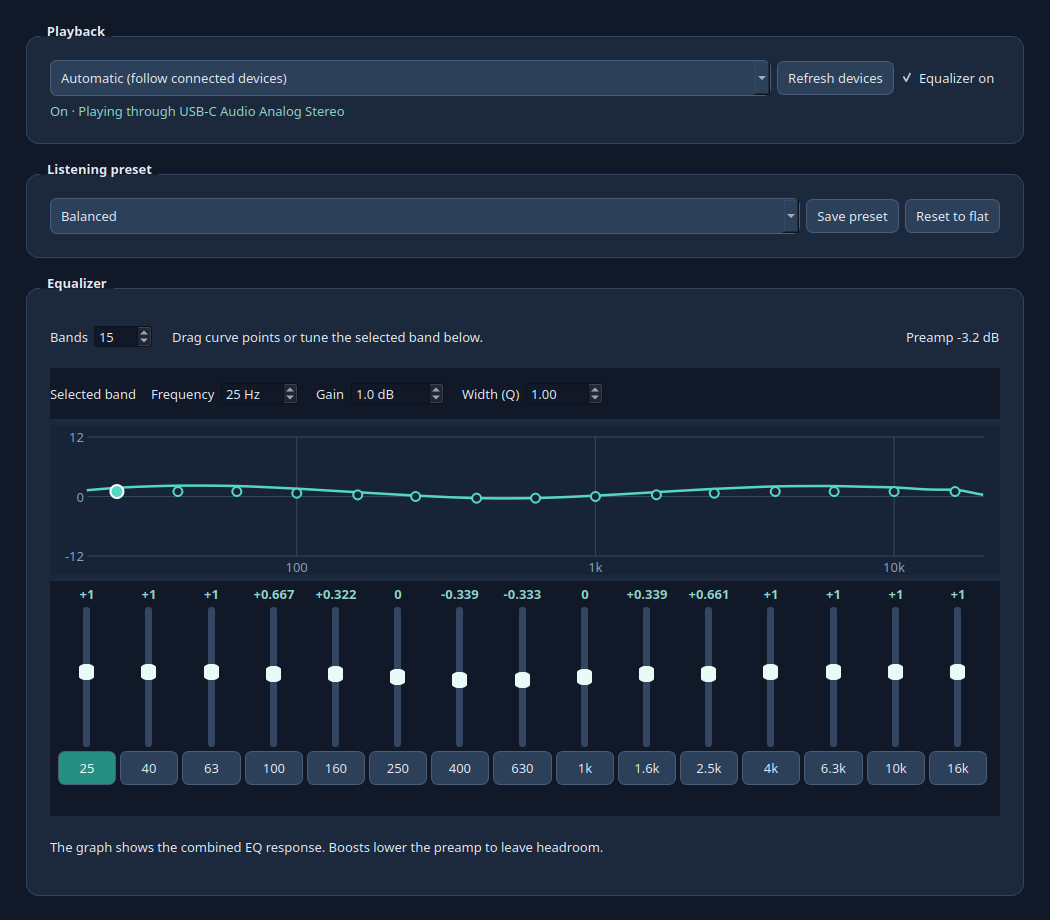
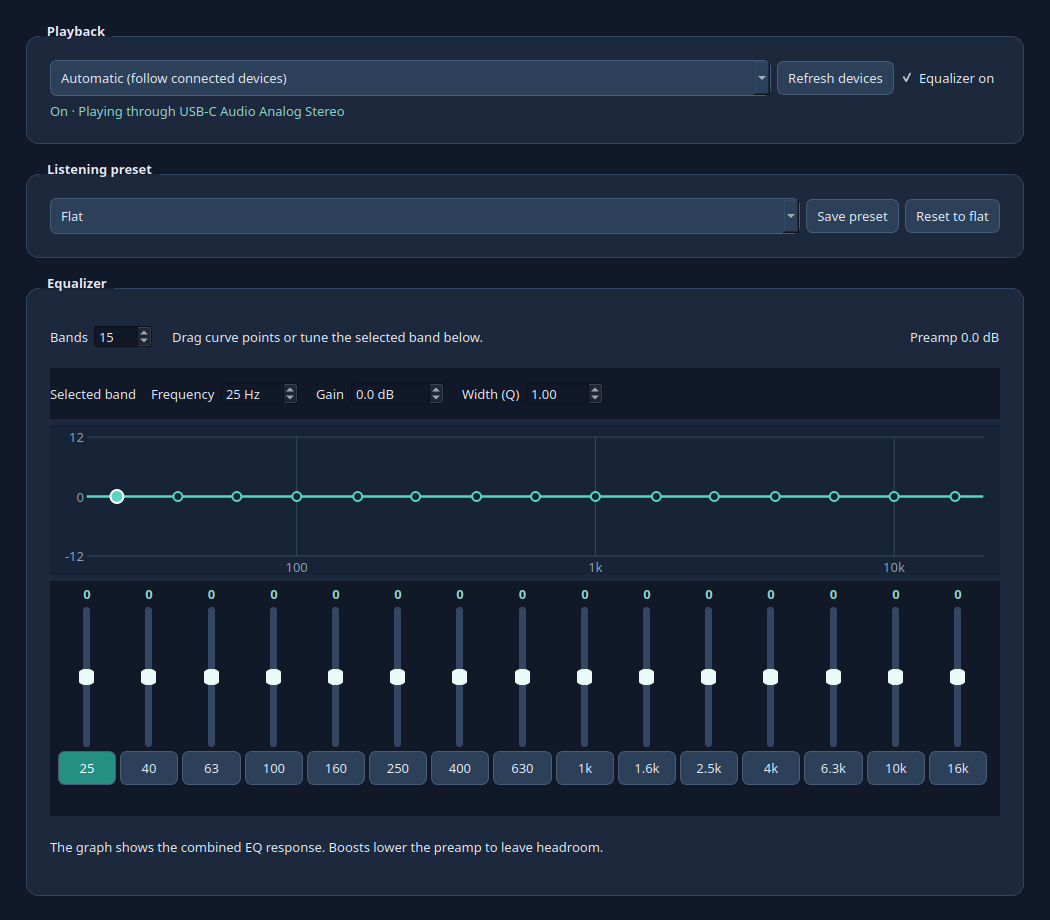
Make presets clear and scrollable with Flat default

diff --git a/src/main.cpp b/src/main.cpp
@@ -18,6 +18,7 @@
 #include <QJsonObject>
 #include <QLabel>
 #include <QLineEdit>
+#include <QListView>
 #include <QLocalServer>
 #include <QLocalSocket>
 #include <QLockFile>
@@ -29,12 +30,12 @@
 #include <QProcess>
 #include <QPushButton>
 #include <QScrollArea>
+#include <QScrollBar>
 #include <QSaveFile>
 #include <QSignalBlocker>
 #include <QSlider>
 #include <QSpinBox>
 #include <QStandardPaths>
-#include <QStandardItemModel>
 #include <QSystemTrayIcon>
 #include <QTemporaryDir>
 #include <QThread>
@@ -262,6 +263,17 @@ int nodeId(const QString &name) {
     return -1;
 }
 
+QString filterControls(const Bands &bands) {
+    QStringList controls = {quote("preamp:Mult"), QString::number(std::pow(10.0, headroom(bands) / 20.0), 'f', 8)};
+    for (int i = 0; i < kMaxBands; ++i) {
+        const auto band = i < bands.size() ? bands[i] : Band{};
+        controls << quote(QString("band_%1:Freq").arg(i + 1)) << QString::number(band.frequency, 'f', 1)
+                 << quote(QString("band_%1:Q").arg(i + 1)) << QString::number(band.q, 'f', 2)
+                 << quote(QString("band_%1:Gain").arg(i + 1)) << QString::number(band.gain, 'f', 2);
+    }
+    return "{ params = [ " + controls.join(' ') + " ] }";
+}
+
 class AudioEngine {
 public:
     bool active() const { return process_.state() != QProcess::NotRunning; }
@@ -313,15 +325,7 @@ public:
         if (!active()) return;
         const auto id = nodeId(kSink);
         if (id < 0) throw std::runtime_error("Equalizer sink disappeared");
-        QStringList controls = {quote("preamp:Mult"), QString::number(std::pow(10.0, headroom(bands) / 20.0), 'f', 8)};
-        for (int i = 0; i < kMaxBands; ++i) {
-            const auto band = i < bands.size() ? bands[i] : Band{};
-            controls << quote(QString("band_%1:Freq").arg(i + 1)) << QString::number(band.frequency, 'f', 1)
-                     << quote(QString("band_%1:Q").arg(i + 1)) << QString::number(band.q, 'f', 2)
-                     << quote(QString("band_%1:Gain").arg(i + 1)) << QString::number(band.gain, 'f', 2);
-        }
-        command("pw-cli", {"set-param", QString::number(id), "Props",
-                            "{ params = [ " + controls.join(' ') + " ] }"});
+        command("pw-cli", {"set-param", QString::number(id), "Props", filterControls(bands)});
     }
 
     void stop() {
@@ -385,7 +389,7 @@ const QMap<QString, std::array<double, 9>> &builtinShapes() {
         {"Movies", {3, 2.5, 1.5, 0, -1, 0, 1, 2, 2}},
         {"Gaming", {3, 2, 0, -2, -1, 1, 3, 2, 0}},
         {"FPS Footsteps", {-5, -4, -3, -2, 0, 2, 4, 3, 1}},
-        {"Night Listening", {-3, -2, -1, 0, 1, 2, 1, -1, -2}},
+        {"Night Listening", {-6, -5, -3, 0, 2, 3, 1, -3, -5}},
         {"Small Speakers", {-4, -2, 0, 2, 2, 1, 1, 0, -1}},
         {"Headphones", {1, 1, 0, -1, -1.5, 0, 1.5, 2, 1}},
         {"Rock", {3, 2, 1, -1, -2, 0, 2, 3, 2}},
@@ -557,9 +561,28 @@ private:
     int dragging_ = -1;
 };
 
+class PresetComboBox : public QComboBox {
+protected:
+    void showPopup() override {
+        QComboBox::showPopup();
+        auto *popup = view()->window();
+        const auto rowHeight = std::max(18, view()->sizeHintForRow(0));
+        const auto height = std::min(count(), maxVisibleItems()) * rowHeight + 16;
+        popup->setFixedHeight(height);
+        if (auto *screen = QGuiApplication::screenAt(mapToGlobal(rect().center()))) {
+            const auto area = screen->availableGeometry();
+            auto position = mapToGlobal(rect().bottomLeft());
+            if (position.y() + height > area.bottom())
+                position.setY(mapToGlobal(rect().topLeft()).y() - height);
+            popup->move(std::clamp(position.x(), area.left(), area.right() - popup->width()),
+                        std::clamp(position.y(), area.top(), area.bottom() - height));
+        }
+    }
+};
+
 class MainWindow : public QMainWindow {
 public:
-    explicit MainWindow(bool startEnabled = true) : bands_(builtinProfile("Balanced", kDefaultBands)) {
+    explicit MainWindow(bool startEnabled = true) : bands_(builtinProfile("Flat", kDefaultBands)) {
         setWindowTitle("SoundCurrent EQ");
         setWindowIcon(QIcon::fromTheme("io.github.rhamenator.SoundCurrentEQ"));
         setMinimumSize(760, 620);
@@ -594,8 +617,11 @@ public:
 
         auto *presetBox = new QGroupBox("Listening preset");
         auto *presetRow = new QHBoxLayout(presetBox);
-        presetCombo_ = new QComboBox;
+        presetCombo_ = new PresetComboBox;
         presetCombo_->setAccessibleName("Listening preset");
+        presetCombo_->setView(new QListView(presetCombo_));
+        presetCombo_->setMaxVisibleItems(12);
+        presetCombo_->view()->setVerticalScrollBarPolicy(Qt::ScrollBarAlwaysOn);
         presetRow->addWidget(presetCombo_, 1);
         auto *save = new QPushButton("Save preset");
         presetRow->addWidget(save);
@@ -665,7 +691,7 @@ public:
         root->addWidget(eqBox, 1);
 
         loadCustomPresets();
-        rebuildPresetList("Balanced");
+        rebuildPresetList("Flat");
         rebuildBandControls();
         syncBandControls();
         refreshDevices();
@@ -882,24 +908,21 @@ private:
     void rebuildPresetList(const QString &selected) {
         const QSignalBlocker blocker(presetCombo_);
         presetCombo_->clear();
-        auto addSection = [this](const QString &title, const QStringList &names) {
-            presetCombo_->addItem(title);
-            if (auto *model = qobject_cast<QStandardItemModel *>(presetCombo_->model())) {
-                auto *heading = model->item(presetCombo_->count() - 1);
-                heading->setEnabled(false);
-                heading->setForeground(QColor("#90d9ce"));
-            }
+        auto addGroup = [this](const QStringList &names) {
+            if (presetCombo_->count()) presetCombo_->insertSeparator(presetCombo_->count());
             for (const auto &name : names) presetCombo_->addItem(name);
         };
-        addSection("Everyday", {"Balanced", "Flat", "Warm", "Bright", "Soft Treble", "Treble Detail",
-                                 "Headphones", "Small Speakers", "Night Listening"});
-        addSection("Bass and speech", {"Bass Boost", "Deep Bass", "Punchy Bass", "Bass Cut",
-                                        "Clear Voice", "Podcast", "TV Dialogue", "Vocal Focus"});
-        addSection("Entertainment", {"Movies", "Gaming", "FPS Footsteps", "Live"});
-        addSection("Music", {"Rock", "Pop", "Jazz", "Classical", "Electronic", "Dance", "Hip-Hop",
-                             "R&B", "Acoustic", "Piano", "Metal", "Lo-Fi"});
-        if (!custom_.isEmpty()) addSection("Saved presets", {});
-        for (auto it = custom_.begin(); it != custom_.end(); ++it) presetCombo_->addItem(it.key());
+        addGroup({"Balanced", "Flat", "Warm", "Bright", "Soft Treble", "Treble Detail",
+                  "Headphones", "Small Speakers", "Night Listening"});
+        addGroup({"Bass Boost", "Deep Bass", "Punchy Bass", "Bass Cut",
+                  "Clear Voice", "Podcast", "TV Dialogue", "Vocal Focus"});
+        addGroup({"Movies", "Gaming", "FPS Footsteps", "Live"});
+        addGroup({"Rock", "Pop", "Jazz", "Classical", "Electronic", "Dance", "Hip-Hop",
+                  "R&B", "Acoustic", "Piano", "Metal", "Lo-Fi"});
+        if (!custom_.isEmpty()) {
+            presetCombo_->insertSeparator(presetCombo_->count());
+            for (auto it = custom_.begin(); it != custom_.end(); ++it) presetCombo_->addItem(it.key());
+        }
         presetCombo_->addItem("Custom");
         presetCombo_->setCurrentText(selected);
     }
@@ -1076,6 +1099,12 @@ int main(int argc, char **argv) {
         QTextStream(stdout) << filterConfig(app.arguments()[2], defaultBands(kDefaultBands));
         return 0;
     }
+    if (app.arguments().size() == 3 && app.arguments()[1] == "--dump-preset-controls") {
+        const auto name = app.arguments()[2];
+        if (!builtinShapes().contains(name)) return 2;
+        QTextStream(stdout) << filterControls(builtinProfile(name, kDefaultBands));
+        return 0;
+    }
     if (app.arguments().contains("--self-test")) {
         try {
             const auto standard = defaultBands(kDefaultBands);
@@ -1156,8 +1185,23 @@ int main(int argc, char **argv) {
         for (auto *combo : testWindow.findChildren<QComboBox *>())
             if (combo->accessibleName() == "Listening preset") presets = combo;
         if (!presets) qFatal("Preset menu is missing");
-        for (auto it = builtinShapes().begin(); it != builtinShapes().end(); ++it)
+        if (presets->currentText() != "Flat") qFatal("Flat is not the default preset");
+        if (presets->findText("Entertainment") >= 0) qFatal("Category title appears as a preset");
+        for (auto it = builtinShapes().begin(); it != builtinShapes().end(); ++it) {
             if (presets->findText(it.key()) < 0) qFatal("A built-in preset is missing from the menu");
+            presets->setCurrentText(it.key());
+            if (std::abs(gain->value() - builtinProfile(it.key(), kDefaultBands).first().gain) > 0.11)
+                qFatal("A built-in preset did not update the band controls");
+        }
+        testWindow.show();
+        app.processEvents();
+        presets->showPopup();
+        app.processEvents();
+        if (presets->maxVisibleItems() != 12 ||
+            presets->view()->verticalScrollBar()->maximum() <= 0)
+            qFatal("Preset menu does not scroll");
+        presets->hidePopup();
+        testWindow.hide();
         presets->setCurrentText("Deep Bass");
         if (gain->value() < 6.0) qFatal("Deep Bass preset did not change the bands");
         presets->setCurrentText("Flat");

diff --git a/tests/audio_response.py b/tests/audio_response.py
@@ -75,18 +75,19 @@ def main():
             else:
                 raise RuntimeError("PipeWire did not create the EQ sink")
 
-            tone = directory / "tone.wav"
-            with wave.open(str(tone), "wb") as wav:
-                wav.setnchannels(2)
-                wav.setsampwidth(2)
-                wav.setframerate(48000)
-                frame = array.array("h")
-                for n in range(96000):
-                    value = round(3000 * math.sin(2 * math.pi * 1000 * n / 48000))
-                    frame.extend((value, value))
-                wav.writeframes(frame.tobytes())
+            for frequency in (100, 1000):
+                with wave.open(str(directory / f"tone-{frequency}.wav"), "wb") as wav:
+                    wav.setnchannels(2)
+                    wav.setsampwidth(2)
+                    wav.setframerate(48000)
+                    frame = array.array("h")
+                    for n in range(96000):
+                        value = round(3000 * math.sin(2 * math.pi * frequency * n / 48000))
+                        frame.extend((value, value))
+                    wav.writeframes(frame.tobytes())
 
-            flat = capture(tone, directory / "flat.raw", sink)
+            flat_100 = capture(directory / "tone-100.wav", directory / "flat-100.raw", sink)
+            flat = capture(directory / "tone-1000.wav", directory / "flat.raw", sink)
             frequencies = (25, 40, 63, 100, 160, 250, 400, 630, 1000, 1600, 2500, 4000, 6300,
                            10000, 16000)
             controls = ['"preamp:Mult" 1.0']
@@ -98,11 +99,21 @@ def main():
                                  f'"band_{index}:Gain" {gain}'))
             run("pw-cli", "set-param", str(eq_id), "Props", "{ params = [ " + " ".join(controls) + " ] }",
                 stdout=subprocess.DEVNULL)
-            cut = capture(tone, directory / "cut.raw", sink)
+            cut = capture(directory / "tone-1000.wav", directory / "cut.raw", sink)
             change = 20 * math.log10(cut / flat)
             print(f"1 kHz band response: {change:.1f} dB (expected about -12 dB)")
             if not -14.0 < change < -10.0:
                 raise RuntimeError("Equalizer control did not change the audio signal as expected")
+
+            night_controls = run(str(binary), "--dump-preset-controls", "Night Listening",
+                                 capture_output=True, text=True,
+                                 env={**os.environ, "QT_QPA_PLATFORM": "offscreen"}).stdout
+            run("pw-cli", "set-param", str(eq_id), "Props", night_controls, stdout=subprocess.DEVNULL)
+            night_100 = capture(directory / "tone-100.wav", directory / "night-100.raw", sink)
+            night_change = 20 * math.log10(night_100 / flat_100)
+            print(f"Night Listening response at 100 Hz: {night_change:.1f} dB relative to Flat")
+            if night_change > -8.0:
+                raise RuntimeError("Night Listening did not sufficiently reduce low frequencies")
         finally:
             if pipewire is not None:
                 pipewire.terminate()

diff --git a/README.md b/README.md
@@ -5,6 +5,7 @@ starts with 15 frequency bands and lets you choose any count from 5 to 31.
 Each band has adjustable gain, center frequency, and width (Q). It also has a
 response curve, 33 listening presets, saved custom presets, and an output dropdown
 with an **Automatic** option that follows connected devices.
+It opens with the **Flat** preset selected.
 
 ![SoundCurrent EQ desktop window](docs/screenshot.png)
 
@@ -75,9 +76,9 @@ or install missing dependencies.
 - Pick a built-in preset or save your own. Custom presets live in your user
   configuration directory. Saved nine-band presets from earlier releases can
   still be loaded.
-- Built-in presets are grouped by everyday listening, bass and speech,
-  entertainment, and music. They include Deep Bass, Podcast, TV Dialogue,
-  FPS Footsteps, Rock, Jazz, Electronic, Hip-Hop, and more.
+- The scrollable preset list includes Deep Bass, Podcast, TV Dialogue,
+  FPS Footsteps, Rock, Jazz, Electronic, Hip-Hop, Night Listening, and more.
+  Separators divide the list; every named entry is a working preset.
 - Closing the window keeps the equalizer running. Use its indicator icon to
   reopen it, turn processing on or off, or quit. Launching the app again also
   reopens the existing window. If the desktop has no tray, closing the window
@@ -121,8 +122,9 @@ The first command briefly creates the EQ sink, changes its band count and
 controls, and checks that the original default output is restored. It uses the
 currently selected physical output and does not play a test sound. The second
 checks the 31-band interface, preset library, and selected-band controls without using audio.
-The third command sends a 1 kHz tone through a temporary silent sink and
-verifies that a 12 dB band cut changes the measured output by about 12 dB.
+The third command sends tones through a temporary silent sink and verifies
+that a 12 dB band cut changes the measured output by about 12 dB and that
+Night Listening reduces low-frequency output.
 It requires `paplay` and `parec`, and leaves the normal default output alone.
 
 ## Privacy and safety
